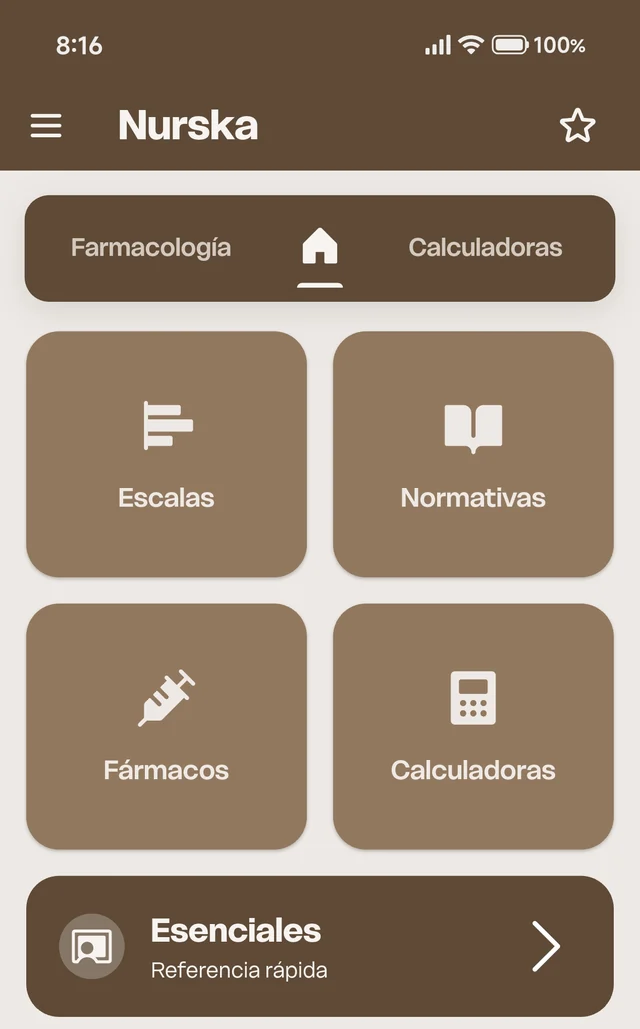
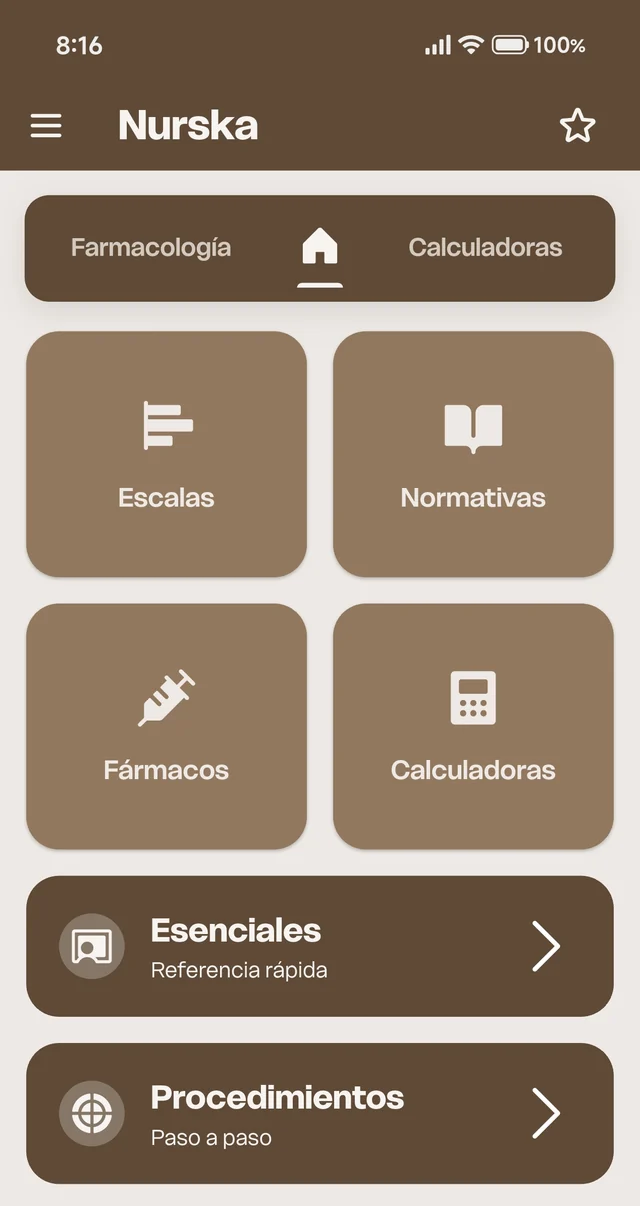
Landing: la portada muestra el botón de Procedimientos
Claude-Session: https://claude.ai/code/session_01FsfKZ1knpTXjysVmniKvEW

diff --git a/index.html b/index.html
@@ -414,7 +414,7 @@
     </div>
 
     <div class="telefono">
-      <img class="pantalla" src="assets/img/inicio.webp" width="640" height="1029" alt="Pantalla de inicio de Nurska con los botones de Escalas, Normativas, Fármacos, Calculadoras y Esenciales">
+      <img class="pantalla" src="assets/img/inicio.webp" width="640" height="1206" alt="Pantalla de inicio de Nurska con los botones de Escalas, Normativas, Fármacos, Calculadoras, Esenciales y Procedimientos">
     </div>
   </div>
 </header>
